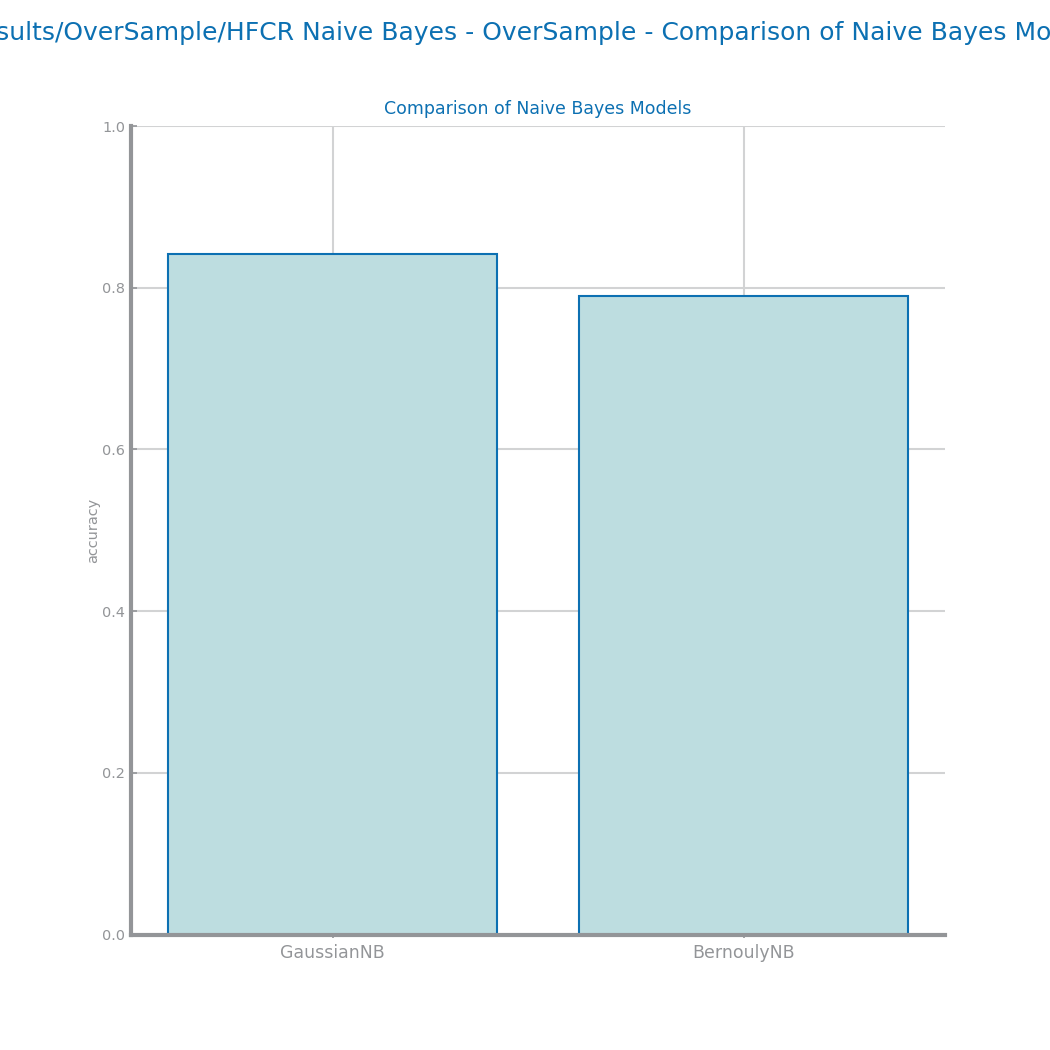
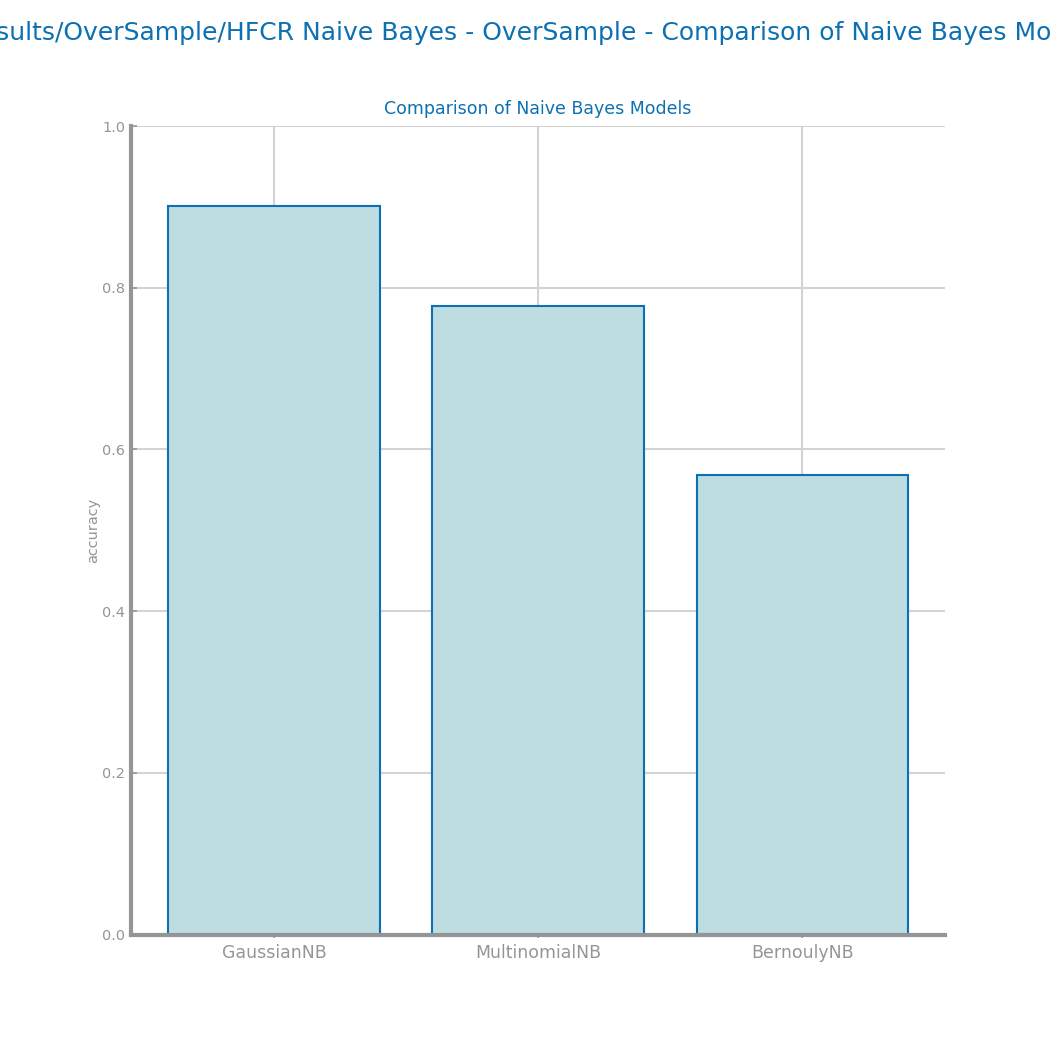
naive bayes treated

Changed region(s): [[0.1524, 0.1829, 0.8838, 0.9143]]

diff --git a/Labs/Lab05/QOT_naive_bayes-treated.py b/Labs/Lab05/QOT_naive_bayes-treated.py
@@ -14,12 +14,12 @@ if not os.path.exists(graphsDir):
 
 print('--------------------------------------')
 print('-                                    -')
-print('-     QOT Naive Bayes - Treated     -')
+print('-     QOT Naive Bayes - Treated      -')
 print('-                                    -')
 print('--------------------------------------')
 
-data: pd.DataFrame = pd.read_csv('../../Dataset/heart_failure_clinical_records_dataset.csv')
-datas = prepfunctions.prepare_dataset(data, 'DEATH_EVENT', True, True)
+data: pd.DataFrame = pd.read_csv('../../Dataset/qsar_oral_toxicity.csv', sep=';', header=None)
+datas = prepfunctions.prepare_dataset(data, 1024, False, False)
 
 for key, value in datas.items():
     data = value
@@ -28,7 +28,7 @@ for key, value in datas.items():
         os.makedirs(subDir) 
 
     print('QOT Naive Bayes - Performance & Confusion matrix')
-    y: np.ndarray = data.pop('DEATH_EVENT').values
+    y: np.ndarray = data.pop(1024).values
     X: np.ndarray = data.values
     labels = pd.unique(y)
     
@@ -45,7 +45,7 @@ for key, value in datas.items():
 
     print('QOT Naive Bayes - Comparison of Naive Bayes Models')
     estimators = {'GaussianNB': GaussianNB(),
-              #'MultinomialNB': MultinomialNB(),
+              'MultinomialNB': MultinomialNB(),
               'BernoulyNB': BernoulliNB()}
 
     xvalues = []

diff --git a/Labs/Lab05/HFCR_naive_bayes-treated.py b/Labs/Lab05/HFCR_naive_bayes-treated.py
@@ -19,7 +19,7 @@ print('-                                    -')
 print('--------------------------------------')
 
 data: pd.DataFrame = pd.read_csv('../../Dataset/heart_failure_clinical_records_dataset.csv')
-datas = prepfunctions.prepare_dataset(data, 'DEATH_EVENT', True, True)
+datas = prepfunctions.prepare_dataset(data, 'DEATH_EVENT', False, True)
 
 for key, value in datas.items():
     data = value
@@ -62,7 +62,7 @@ for key, value in datas.items():
 
     print('HFCR Naive Bayes - Comparison of Naive Bayes Models')
     estimators = {'GaussianNB': GaussianNB(),
-                  #'MultinomialNB': MultinomialNB(),
+                  'MultinomialNB': MultinomialNB(),
                   'BernoulyNB': BernoulliNB()}
 
     xvalues = []
